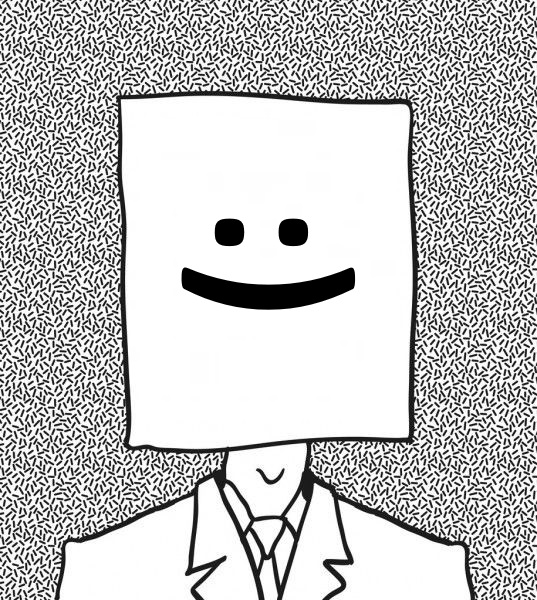
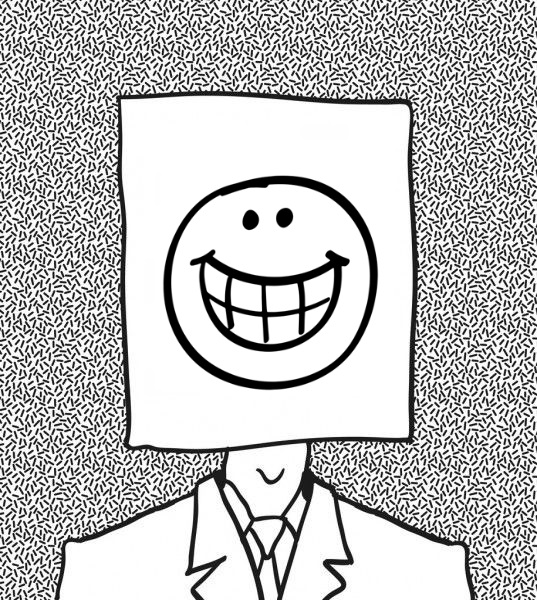
update

Changed region(s): [[0.298, 0.27, 0.7151, 0.66]]

diff --git a/index.html b/index.html
@@ -76,7 +76,7 @@
   <!-- Hero Section -->
   <section class="hero align-items-stretch">
     <div class="hero-principal d-flex flex-column justify-content-center align-items-center">
-      <img id="random-image" class="hero-developer" src="image/profilepic.jpg" alt="'s photo PabelH">
+      <img id="random-image" class="hero-developer" src="image/profilepicbase.jpg" alt="PabelH's photo">
       <div class="writer-container">
         <h1 class="writer">Hi, I'm Pabel Hernandez</h1>
       </div>

diff --git a/index-es.html b/index-es.html
@@ -76,7 +76,7 @@
   <!-- Hero Section -->
   <section class="hero align-items-stretch">
     <div class="hero-principal d-flex flex-column justify-content-center align-items-center">
-      <img class="hero-developer" src="image/profilepic.jpg" alt="'s photo PabelH">
+      <img id="random-image" class="hero-developer" src="image/profilepicbase.jpg"  alt="PabelH's photo ">
       <div class="writer-container">
         <h1 class="writer">Hola, soy Pabel Hernández</h1>
       </div>
